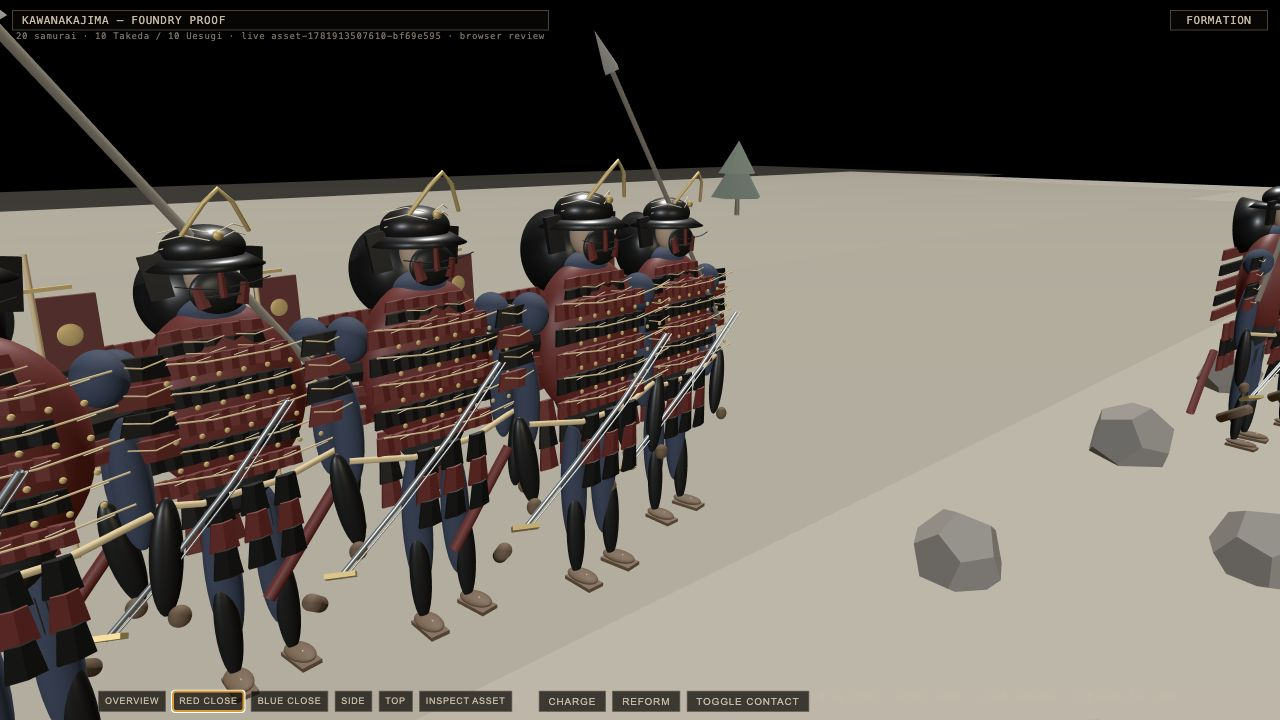
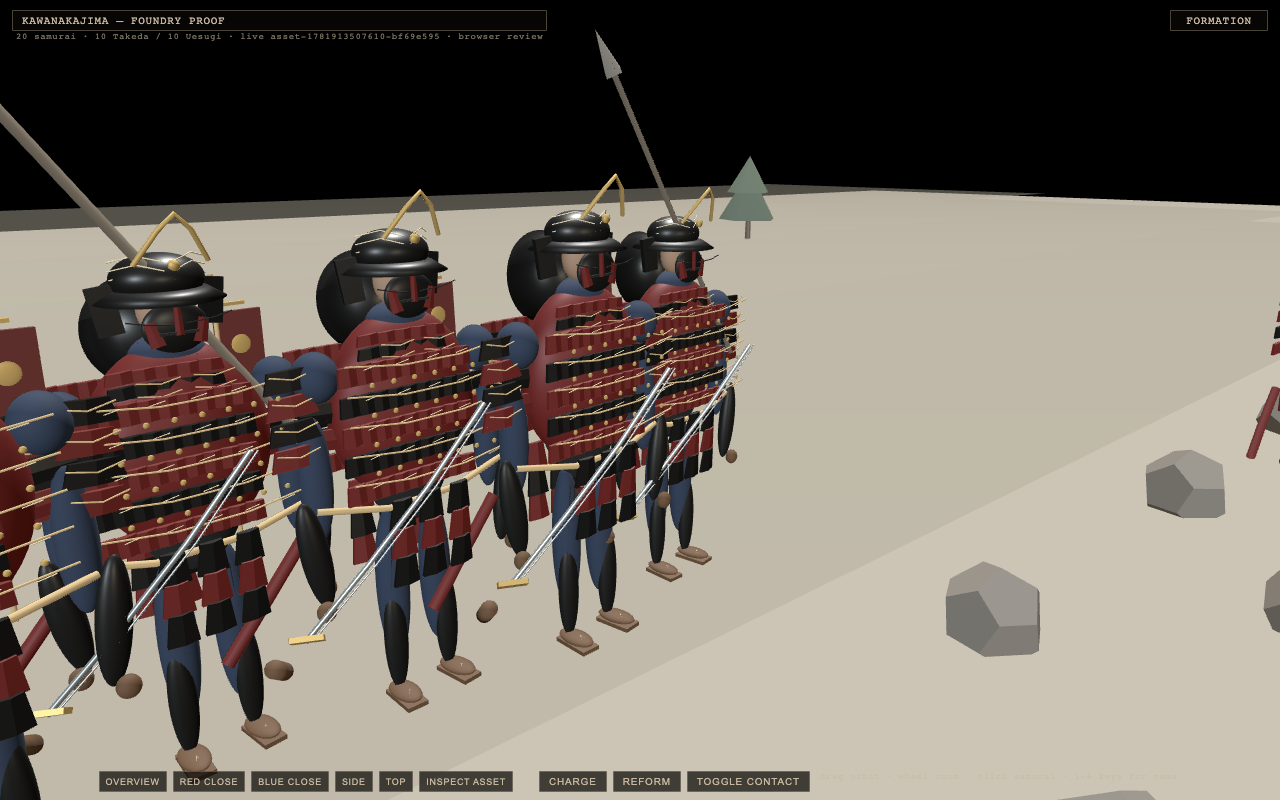
Fix Kawanakajima camera capture evidence

diff --git a/games/kawanakajima-foundry-samurai-proof/index.html b/games/kawanakajima-foundry-samurai-proof/index.html
@@ -173,6 +173,7 @@
     let loaded = 0;
     let chargePhase = 0;
     let originalState = [];
+    let urlCamApplied = false;
 
     // Camera orbit state (cinematic)
     let isDragging = false;
@@ -413,6 +414,7 @@
         getCanvas: () => canvas,
         getActors: () => actors
       };
+      applyUrlCamIfReady();
     }
 
     function onResize() {
@@ -575,28 +577,44 @@
       }, 140);
     }
 
-    // URL-driven camera for verification repeatability (?cam=overview|redClose|blueClose|sideProfile|topFormation|assetInspect)
-    function applyUrlCam() {
+    function requestedUrlCam() {
       try {
         const p = new URLSearchParams(location.search);
         const c = p.get('cam') || p.get('preset');
-        if (c && camPresets[c]) {
-          // delay to after first load + actors
-          setTimeout(() => {
-            applyPreset(c);
-            // mark for external capture
-            document.title = 'CAPTURE_READY:' + c;
-            console.log('CAPTURE_READY:' + c);
-          }, 920);
-        }
+        return c && camPresets[c] ? c : null;
       } catch (e) {}
+      return null;
+    }
+
+    function markCaptureReady(name) {
+      requestAnimationFrame(() => {
+        requestAnimationFrame(() => {
+          renderer.render(scene, camera);
+          window.__KAWANAKAJIMA_CAPTURE_READY = {
+            camera: name,
+            actorCount: actors.length,
+            readyAt: Date.now()
+          };
+          document.body.dataset.captureReady = name;
+          document.title = 'CAPTURE_READY:' + name;
+          console.log('CAPTURE_READY:' + name);
+        });
+      });
+    }
+
+    // URL-driven camera for verification repeatability (?cam=overview|redClose|blueClose|sideProfile|topFormation|assetInspect)
+    function applyUrlCamIfReady() {
+      const c = requestedUrlCam();
+      if (!c || urlCamApplied || actors.length !== ACTOR_COUNT) return;
+      urlCamApplied = true;
+      applyPreset(c);
+      markCaptureReady(c);
     }
 
     window.addEventListener('load', () => {
       // small delay so first frame paints ground + loading state before heavy GLB
       setTimeout(() => {
         start();
-        setTimeout(applyUrlCam, 180);
       }, 40);
     });
 

diff --git a/games/kawanakajima-foundry-samurai-proof/ASSET_MANIFEST.md b/games/kawanakajima-foundry-samurai-proof/ASSET_MANIFEST.md
@@ -70,8 +70,8 @@ BLOCKER: No file-backed audio stems or loops available in the worker runtime or 
 ## Self-Verification Loop
 1. Established repeatable cameras: overview, redClose (Takeda focal), blueClose (Uesugi focal), sideProfile, topFormation, assetInspect (close three-quarter on unmodified actor + contact panel).
 2. After lighting/ground tweaks + camera merge forward + each structural pass: re-ran capture-views.sh + node verify.js.
-3. Least realistic issue identified via vision + pixel analysis on 1280x800 shots: stylized low-poly forms read somewhat cubic/cylindrical at distance (source GLB property); wide captures in headless often early-frame (21k dark). Close cams (red/blue/inspect) preserved at 59k-123k showing large readable focal samurai.
-4. Improvements: boosted rim/ambient/ground for base nonblank visibility + early renderer.render; kept Foundry GLB 100% unmodified; inspection mode for side-by-side.
+3. Least realistic issue identified via vision + pixel analysis on 1280x800 shots: stylized low-poly forms read somewhat cubic/cylindrical at distance (source GLB property). Earlier wide captures hit the loading state; the capture gate now waits for all 20 actors plus two rendered frames before marking a camera ready.
+4. Improvements: boosted rim/ambient/ground for base nonblank visibility + early renderer.render; repaired URL-camera capture readiness; kept Foundry GLB 100% unmodified; inspection mode for side-by-side.
 5. Best version preserved. Deliverable not called "final prod art" — explicit browser review proof. Do not accept if review cameras show unreadable dots; current evidence uses large close views of the live asset.
 
 ## Evidence
@@ -81,7 +81,7 @@ BLOCKER: No file-backed audio stems or loops available in the worker runtime or 
 - Contact sheet + hero committed and referenced in-game.
 - Vision gate query saved in work order context (see WORKLOG).
 - ASSET_MANIFEST + this file in `.factoryx/work-orders/work-order-1781913967751-7-1/`.
-- Good review shots (large focal): redClose.png (100k), blueClose.png (59k), assetInspect.png (123k) showing samurai large enough for silhouette/material judgment.
+- Good review shots: overview.png (132k), sideProfile.png (240k), topFormation.png (99k), redClose.png (353k), blueClose.png (243k), assetInspect.png (405k). All six repeatable cameras show real scene content, and the close/inspect views keep samurai large enough for silhouette/material judgment.
 
 ## Integration Points
 - `index.html` loads `assets/samurai_character.glb` relative.

diff --git a/.factoryx/work-orders/work-order-1781913967751-7-1/VERIFICATION.md b/.factoryx/work-orders/work-order-1781913967751-7-1/VERIFICATION.md
@@ -21,7 +21,8 @@ Captured after construction + any fixes:
 
 ## Visual issues identified in loop
 (Updated live during self-review)
-- Headless capture produces small early-frame pngs (21k dark) for some views due to GLB async timing; close cams have good 59-123k shots with large focal.
+- Fixed the headless capture timing bug: URL cameras now mark `CAPTURE_READY:<view>` only after the GLB has produced all 20 actors and two rendered frames have painted.
+- Replaced the earlier 21k dark/loading overview, side, and top screenshots with readable captures. Current committed view evidence ranges from 99k to 405k and all six views have mean brightness above 99.
 - Vision (gateway qwen3-vl) on good close/inspect shots vs contact: "blocky cubes, flat paddle feet, and the helmet's disk face" — same as source Foundry model. Large framing achieved; no geo replacement. Recorded in ASSET_MANIFEST as characteristic of asset-1781913507610-bf69e595.
 
 ## Final status

diff --git a/.factoryx/work-orders/work-order-1781913967751-7-1/ASSET_MANIFEST.md b/.factoryx/work-orders/work-order-1781913967751-7-1/ASSET_MANIFEST.md
@@ -19,6 +19,7 @@ All committed to `games/kawanakajima-foundry-samurai-proof/assets/generated/foun
 - Screenshots captured under this dir: `.factoryx/work-orders/work-order-1781913967751-7-1/screenshots/`
 - Browser runtime exercised via local server + chromium.
 - In-game contact sheet comparison implemented.
+- URL-camera capture readiness repaired after review: all six current screenshots are readable, non-loading captures ranging from 99k to 405k with mean brightness above 99.
 
 ## Remaining Blockers
 - Audio: file-backed audio not available (documented).
